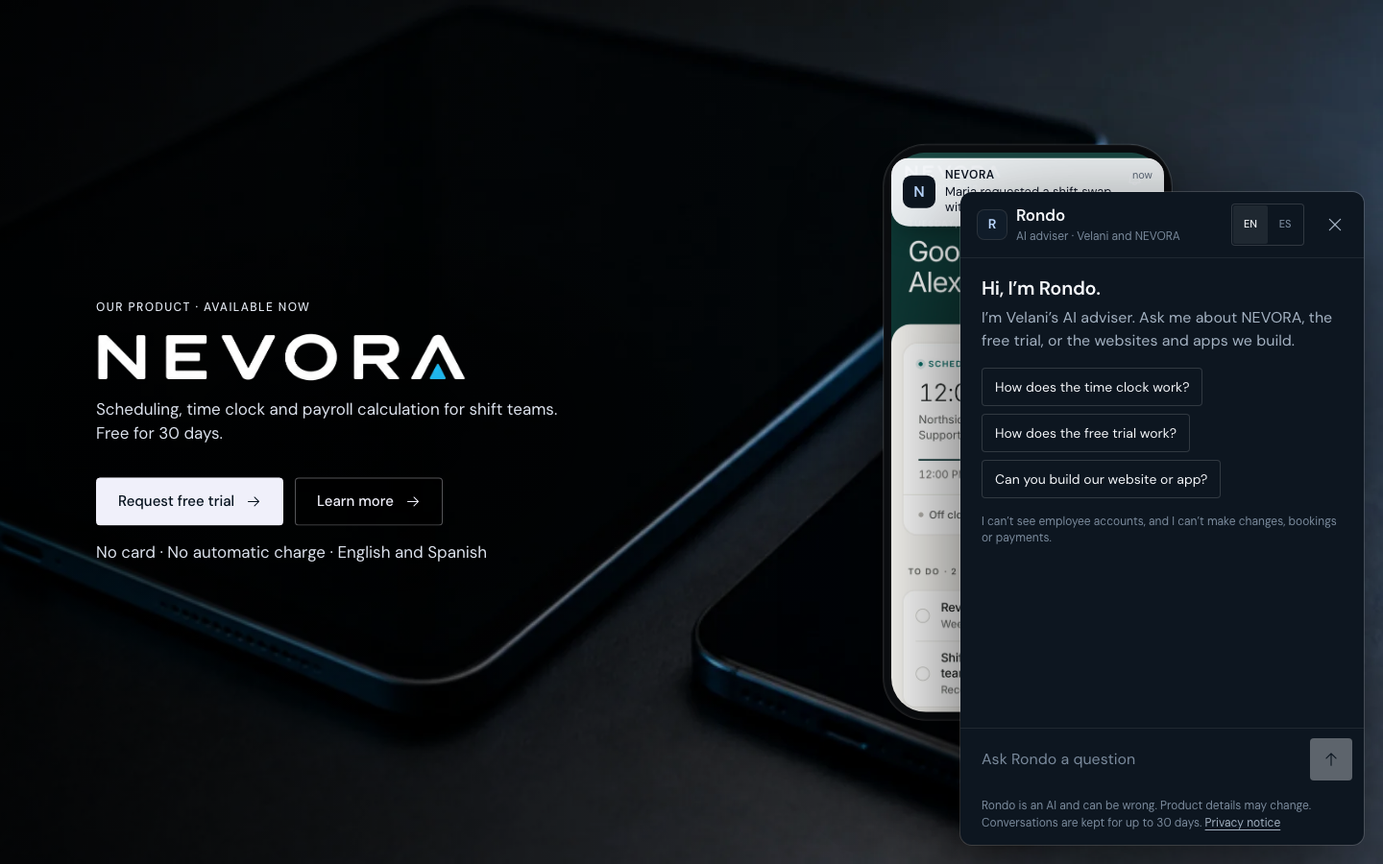
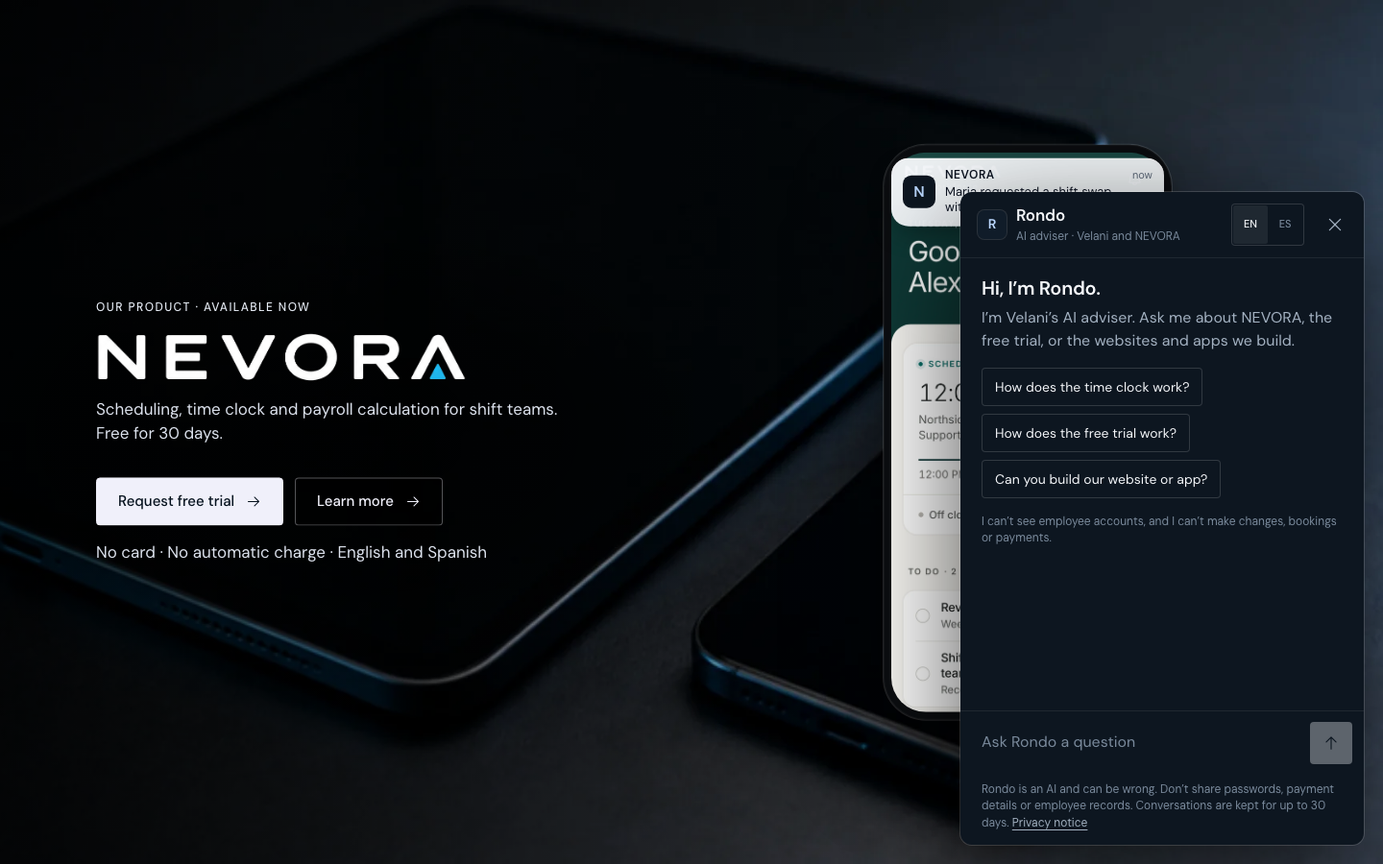
Fix the inspection's copy and flow issues; hand Codex the Rondo launch items
- Trial form: choosing "More than 30 (by quote)" turns the page into a quote
  request (heading, button, topic, note) and keeps what was typed.
- Plans, Help, Contact: the trial ends one of two ways, continue by quote or
  close the workplace, with export as the step before closing.
- Rondo: "In development" in both menus; "Ask Rondo" on the NEVORA page opens
  the chat; the chat asks people not to share passwords, payment details or
  employee records.
- Products: description links say Explore; Relay says Join the waitlist;
  the page has its own search description. Contact topic: NEVORA Relay waitlist.
- docs/handoffs: retention scheduling, knowledge refresh and client sync for Codex.

Checks: 34 unit tests, theme check clean, inspection-fixes 44/44, Rondo UI 166/166.

Changed region(s): [[0.7188, 0.84, 1.0, 0.9644]]

diff --git a/src/night/products.body.html b/src/night/products.body.html
@@ -1,2 +1,2 @@
 <!-- Products page source (/pages/products). src/night.mjs renders only <main>; the global header and footer come from night.mjs and foot.html. NEVORA Workforce, NEVORA Relay (coming soon) and custom development, then the closing panel. -->
-<main id="main"><section class="phero"><div class="wrap"><p class="kicker">Velani</p><h1 class="t1 rise">What we make.</h1><p class="lede fade">NEVORA, our own software for businesses that run on shifts and orders, and custom software we build for other businesses.</p></div></section><section class="hpanel " id="nevora" aria-labelledby="nevora-t"><img class="hph" src="img/ai-devices.webp" alt="" width="1920" height="1080" loading="lazy" decoding="async"><div class="hshade"></div><div class="hcopy"><p class="hkick">NEVORA Workforce&nbsp;· Available now</p><h2 class="rise" id="nevora-t"><img src="img/nevora-wm-white.png" alt="NEVORA" width="907" height="122"></h2><p class="fade">Scheduling, time clock and payroll calculation for teams that work in shifts, with Rondo, its AI assistant, in development. Free for 30 days, for teams of up to 30 employees.</p><div class="hacts fade"><a class="hb fill" href="/pages/contact?interest=nevora-demo">Request free trial{{icon:arrow-right}}</a><a class="hb" href="/pages/nevora">Learn more{{icon:arrow-right}}</a></div></div><div class="hshot fade"><img src="img/phone-long.webp" alt="NEVORA on an employee’s phone: her shift today and two things to do" width="1170" height="3936" loading="lazy"></div></section><section class="hpanel right" id="relay" aria-labelledby="relay-t"><img class="hph" src="img/ai-store-soft.webp" alt="" width="1920" height="1080" loading="lazy" decoding="async"><div class="hshade"></div><div class="hcopy"><p class="hkick">NEVORA Relay&nbsp;· Coming soon</p><h2 class="rise" id="relay-t">Every&nbsp;order. Every&nbsp;item. In&nbsp;sync.</h2><p class="fade">Orders, the kitchen screen and inventory in one system. Works on its own, and with NEVORA Workforce.</p><div class="hacts fade"><a class="hb fill" href="/pages/contact?interest=relay">Get early access{{icon:arrow-right}}</a></div><p class="hfact fade">In design&nbsp;· No dates yet</p></div><ul class="rcard" aria-label="What NEVORA Relay will do"><li>{{icon:receipt}}<span><b>Orders</b>Entered at the counter, sent straight to the right preparation screen.</span></li><li>{{icon:monitor}}<span><b>Kitchen display</b>Accept, prepare and complete orders. No paper tickets.</span></li><li>{{icon:package}}<span><b>Inventory</b>Stock updates as orders are completed, with a warning before you run low.</span></li><li class="rcard-more"><span>Pickup and delivery handoffs and a live dashboard will follow.</span></li></ul></section><section class="hpanel " id="websites" aria-labelledby="websites-t"><img class="hph" src="img/ai-laptop.webp" alt="" width="1920" height="1080" loading="lazy" decoding="async"><div class="hshade"></div><div class="hcopy"><p class="hkick">Custom development</p><h2 class="rise" id="websites-t">Websites</h2><p class="fade">Modern, fast and built to bring in calls and bookings on every phone.</p><div class="hacts fade"><a class="hb" href="/pages/custom-development#web-applications">Start a project{{icon:arrow-right}}</a></div></div></section><section class="hpanel right" id="apps" aria-labelledby="apps-t"><img class="hph" src="img/ai-dash.webp" alt="" width="1920" height="1080" loading="lazy" decoding="async"><div class="hshade"></div><div class="hcopy"><p class="hkick">Custom development</p><h2 class="rise" id="apps-t">Custom apps</h2><p class="fade">Booking systems, loyalty cards, online stores with delivery pricing, and dashboards for your day.</p><div class="hacts fade"><a class="hb" href="/pages/custom-development">Start a project{{icon:arrow-right}}</a></div></div></section><section class="hpanel end" id="velani" aria-label="Velani"><img class="hph flip" src="img/ai-light.webp" alt="" width="1920" height="1080" loading="lazy"><div class="hshade"></div><div class="hcopy"><p class="hwm">{{wordmark}}</p><p class="fade">Software products and custom development. Client support Monday to Friday, 8 am to 9 pm ET at <a class="ul" href="tel:+17879252000">787-925-2000</a>.</p><div class="hacts fade"><a class="hb fill" href="/pages/contact">Start a project{{icon:arrow-right}}</a><a class="hb" href="/pages/help">Client support{{icon:arrow-right}}</a></div></div></section></main>
+<main id="main"><section class="phero"><div class="wrap"><p class="kicker">Velani</p><h1 class="t1 rise">What we make.</h1><p class="lede fade">NEVORA, our own software for businesses that run on shifts and orders, and custom software we build for other businesses.</p></div></section><section class="hpanel " id="nevora" aria-labelledby="nevora-t"><img class="hph" src="img/ai-devices.webp" alt="" width="1920" height="1080" loading="lazy" decoding="async"><div class="hshade"></div><div class="hcopy"><p class="hkick">NEVORA Workforce&nbsp;· Available now</p><h2 class="rise" id="nevora-t"><img src="img/nevora-wm-white.png" alt="NEVORA" width="907" height="122"></h2><p class="fade">Scheduling, time clock and payroll calculation for teams that work in shifts, with Rondo, its AI assistant, in development. Free for 30 days, for teams of up to 30 employees.</p><div class="hacts fade"><a class="hb fill" href="/pages/contact?interest=nevora-demo">Request free trial{{icon:arrow-right}}</a><a class="hb" href="/pages/nevora">Learn more{{icon:arrow-right}}</a></div></div><div class="hshot fade"><img src="img/phone-long.webp" alt="NEVORA on an employee’s phone: her shift today and two things to do" width="1170" height="3936" loading="lazy"></div></section><section class="hpanel right" id="relay" aria-labelledby="relay-t"><img class="hph" src="img/ai-store-soft.webp" alt="" width="1920" height="1080" loading="lazy" decoding="async"><div class="hshade"></div><div class="hcopy"><p class="hkick">NEVORA Relay&nbsp;· Coming soon</p><h2 class="rise" id="relay-t">Every&nbsp;order. Every&nbsp;item. In&nbsp;sync.</h2><p class="fade">Orders, the kitchen screen and inventory in one system. Works on its own, and with NEVORA Workforce.</p><div class="hacts fade"><a class="hb fill" href="/pages/contact?interest=relay">Join the waitlist{{icon:arrow-right}}</a></div><p class="hfact fade">In design&nbsp;· No dates yet</p></div><ul class="rcard" aria-label="What NEVORA Relay will do"><li>{{icon:receipt}}<span><b>Orders</b>Entered at the counter, sent straight to the right preparation screen.</span></li><li>{{icon:monitor}}<span><b>Kitchen display</b>Accept, prepare and complete orders. No paper tickets.</span></li><li>{{icon:package}}<span><b>Inventory</b>Stock updates as orders are completed, with a warning before you run low.</span></li><li class="rcard-more"><span>Pickup and delivery handoffs and a live dashboard will follow.</span></li></ul></section><section class="hpanel " id="websites" aria-labelledby="websites-t"><img class="hph" src="img/ai-laptop.webp" alt="" width="1920" height="1080" loading="lazy" decoding="async"><div class="hshade"></div><div class="hcopy"><p class="hkick">Custom development</p><h2 class="rise" id="websites-t">Websites</h2><p class="fade">Modern, fast and built to bring in calls and bookings on every phone.</p><div class="hacts fade"><a class="hb" href="/pages/custom-development#web-applications">Explore websites{{icon:arrow-right}}</a></div></div></section><section class="hpanel right" id="apps" aria-labelledby="apps-t"><img class="hph" src="img/ai-dash.webp" alt="" width="1920" height="1080" loading="lazy" decoding="async"><div class="hshade"></div><div class="hcopy"><p class="hkick">Custom development</p><h2 class="rise" id="apps-t">Custom apps</h2><p class="fade">Booking systems, loyalty cards, online stores with delivery pricing, and dashboards for your day.</p><div class="hacts fade"><a class="hb" href="/pages/custom-development">Explore custom apps{{icon:arrow-right}}</a></div></div></section><section class="hpanel end" id="velani" aria-label="Velani"><img class="hph flip" src="img/ai-light.webp" alt="" width="1920" height="1080" loading="lazy"><div class="hshade"></div><div class="hcopy"><p class="hwm">{{wordmark}}</p><p class="fade">Software products and custom development. Client support Monday to Friday, 8 am to 9 pm ET at <a class="ul" href="tel:+17879252000">787-925-2000</a>.</p><div class="hacts fade"><a class="hb fill" href="/pages/contact">Start a project{{icon:arrow-right}}</a><a class="hb" href="/pages/help">Client support{{icon:arrow-right}}</a></div></div></section></main>

diff --git a/public/assets/velani.js b/public/assets/velani.js
@@ -26,11 +26,27 @@ if (form && !justSent) {
   // The page already shows the right wording (chosen before paint); drop the unused variant so screen readers and the heading label see one text
   const nevora = document.documentElement.classList.contains('ask-nevora');
   const demo = document.documentElement.classList.contains('ask-demo');
-  document.querySelectorAll(demo ? '.v-d, .v-n:not(.v-nm)' : nevora ? '.v-d, .v-m' : '.v-n, .v-m').forEach(el => el.remove());
-  document.querySelectorAll('.phero .rise[aria-label]').forEach(h => h.setAttribute('aria-label', h.textContent.replace(/\s+/g, ' ').trim()));
+  // The trial page keeps its quote wording (hidden) so a team of more than 30 can switch to a quote without losing what was typed
+  document.querySelectorAll(demo ? '.v-d' : nevora ? '.v-d, .v-m' : '.v-n, .v-m').forEach(el => el.remove());
+  const shown = el => [...el.childNodes].filter(n => n.nodeType === 3 || getComputedStyle(n).display !== 'none').map(n => n.textContent).join('');
+  const relabel = () => document.querySelectorAll('.phero .rise[aria-label]').forEach(h => h.setAttribute('aria-label', shown(h).replace(/\s+/g, ' ').trim()));
+  relabel();
   if (topic === 'nevora' || topic === 'nevora-demo') {
     document.title = (topic === 'nevora-demo' ? 'Free NEVORA trial' : 'NEVORA for your team') + ' · Velani';
     fields.message.required = false;
+  }
+  // Trial page, team of more than 30: the free trial does not apply, so the page becomes a quote request (heading, button, topic)
+  if (demo && fields.team) {
+   const note = document.createElement('p'); note.className = 'send-note quote-note'; note.setAttribute('role', 'status'); note.hidden = true;
+   note.textContent = 'Teams of more than 30 people get a quote instead of the free trial. What you typed is kept.';
+   submitButton.before(note);
+   fields.team.addEventListener('change', () => {
+    const big = /^More than 30/.test(fields.team.value);
+    document.documentElement.classList.toggle('ask-demo', !big);
+    fields.interest.value = big ? 'nevora' : 'nevora-demo';
+    document.title = (big ? 'NEVORA for your team' : 'Free NEVORA trial') + ' · Velani';
+    note.hidden = !big; relabel();
+   });
   }
   const setBusy = busy => { submitButton.disabled = busy; form.setAttribute('aria-busy', String(busy)); };
   const messages = { checking: 'Checking your draft…', preview: 'Draft checked. Nothing was sent.', invalid: 'Check the highlighted fields.', sending: 'Sending inquiry…', accepted: 'Your inquiry was submitted.', failed: 'The inquiry was not accepted. Review the form before trying again.', uncertain: 'We could not confirm the submission. It may have been accepted. Check with support@thevelani.com before sending it again.', unavailable: 'Inquiry delivery is not available.' };
@@ -55,7 +71,7 @@ if (form && !justSent) {
     }
     if (mode === 'live') {
       // A NEVORA enquiry may have no message: send the team details as the message body so the email is never empty
-      if (!values.message.trim() && fields.message) fields.message.value = [values.interest === 'relay' ? 'NEVORA Relay early access request.' : values.interest === 'nevora-demo' ? 'Free NEVORA trial request.' : 'NEVORA quote request.', values.team && 'Team size: ' + values.team, values.locations && 'Locations: ' + values.locations, values.company && 'Company: ' + values.company].filter(Boolean).join('\n');
+      if (!values.message.trim() && fields.message) fields.message.value = [values.interest === 'relay' ? 'NEVORA Relay waitlist request.' : values.interest === 'nevora-demo' ? 'Free NEVORA trial request.' : 'NEVORA quote request.', values.team && 'Team size: ' + values.team, values.locations && 'Locations: ' + values.locations, values.company && 'Company: ' + values.company].filter(Boolean).join('\n');
       try { sessionStorage.setItem('v-inquiry-topic', values.interest || ''); } catch {}
       setBusy(true); status.textContent = messages.sending; return;
     }

diff --git a/public/assets/velani-assist.js b/public/assets/velani-assist.js
@@ -13,7 +13,7 @@ import { VelaniAssistant, safeSourceUrl } from './velani-assistant.js';
    ask: 'Ask Rondo a question', label: 'Your question for Rondo', send: 'Send', close: 'Close', del: 'Delete this conversation', lang: 'Language',
    confirm: 'Delete this conversation from our servers?', yes: 'Delete', keep: 'Keep',
    switchQ: 'Switch to Spanish? This conversation will be deleted and a new one started in Spanish.', switchYes: 'Switch', switchNo: 'Keep English', switched: 'New conversation in English.',
-   verify: 'Checking that your browser is not an automated program…', note: 'Rondo is an AI and can be wrong. Product details may change. Conversations are kept for up to 30 days.', privacy: 'Privacy notice',
+   verify: 'Checking that your browser is not an automated program…', note: 'Rondo is an AI and can be wrong. Don’t share passwords, payment details or employee records. Conversations are kept for up to 30 days.', privacy: 'Privacy notice',
    retry: 'Retry', discard: 'Discard', edit: 'Edit question', contact: 'Contact page',
    sugg: ['How does the time clock work?', 'How does the free trial work?', 'Can you build our website or app?'],
    sources: 'Sources', newTab: '(opens in a new tab)', demo: 'Try the time clock', quote: 'Ask for a quote', support: 'NEVORA support', talk: 'Contact us',
@@ -25,7 +25,7 @@ import { VelaniAssistant, safeSourceUrl } from './velani-assistant.js';
    ask: 'Escribe tu pregunta para Rondo', label: 'Tu pregunta para Rondo', send: 'Enviar', close: 'Cerrar', del: 'Eliminar esta conversación', lang: 'Idioma',
    confirm: '¿Eliminar esta conversación de nuestros servidores?', yes: 'Eliminar', keep: 'Conservar',
    switchQ: '¿Cambiar a inglés? Esta conversación se eliminará y empezará una nueva en inglés.', switchYes: 'Cambiar', switchNo: 'Seguir en español', switched: 'Nueva conversación en español.',
-   verify: 'Comprobando que tu navegador no es un programa automatizado…', note: 'Rondo es una IA y puede equivocarse. Los detalles del producto pueden cambiar. Las conversaciones se conservan hasta 30 días.', privacy: 'Aviso de privacidad',
+   verify: 'Comprobando que tu navegador no es un programa automatizado…', note: 'Rondo es una IA y puede equivocarse. No compartas contraseñas, datos de pago ni registros de empleados. Las conversaciones se conservan hasta 30 días.', privacy: 'Aviso de privacidad',
    retry: 'Reintentar', discard: 'Descartar', edit: 'Editar pregunta', contact: 'Página de contacto',
    sugg: ['¿Cómo funciona el reloj de entrada?', '¿Cómo funciona la prueba gratis?', '¿Pueden crear nuestro sitio web o aplicación?'],
    sources: 'Fuentes', newTab: '(se abre en una pestaña nueva)', demo: 'Probar el reloj de entrada', quote: 'Pedir una cotización', support: 'Soporte de NEVORA', talk: 'Contáctanos',
@@ -63,6 +63,8 @@ import { VelaniAssistant, safeSourceUrl } from './velani-assistant.js';
   panel.classList.remove('in'); panel.hidden = true; panel.removeAttribute('aria-modal'); launch.setAttribute('aria-expanded', 'false'); document.body.style.overflow = ''; launch.focus({ preventScroll: true });
  };
  launch.addEventListener('click', open); $('ast-close').addEventListener('click', close);
+ // Page buttons marked data-open-rondo open the panel; without the assistant they keep their normal link
+ document.querySelectorAll('[data-open-rondo]').forEach(a => a.addEventListener('click', e => { e.preventDefault(); if (panel.hidden) open(); }));
  panel.addEventListener('keydown', e => {
   if (e.key === 'Escape') { e.preventDefault(); if (!confirm.hidden) hideConfirm(); else close(); return; }
   if (e.key === 'Tab' && small.matches) {

diff --git a/src/night/assist.js b/src/night/assist.js
@@ -13,7 +13,7 @@ import { VelaniAssistant, safeSourceUrl } from './velani-assistant.js';
    ask: 'Ask Rondo a question', label: 'Your question for Rondo', send: 'Send', close: 'Close', del: 'Delete this conversation', lang: 'Language',
    confirm: 'Delete this conversation from our servers?', yes: 'Delete', keep: 'Keep',
    switchQ: 'Switch to Spanish? This conversation will be deleted and a new one started in Spanish.', switchYes: 'Switch', switchNo: 'Keep English', switched: 'New conversation in English.',
-   verify: 'Checking that your browser is not an automated program…', note: 'Rondo is an AI and can be wrong. Product details may change. Conversations are kept for up to 30 days.', privacy: 'Privacy notice',
+   verify: 'Checking that your browser is not an automated program…', note: 'Rondo is an AI and can be wrong. Don’t share passwords, payment details or employee records. Conversations are kept for up to 30 days.', privacy: 'Privacy notice',
    retry: 'Retry', discard: 'Discard', edit: 'Edit question', contact: 'Contact page',
    sugg: ['How does the time clock work?', 'How does the free trial work?', 'Can you build our website or app?'],
    sources: 'Sources', newTab: '(opens in a new tab)', demo: 'Try the time clock', quote: 'Ask for a quote', support: 'NEVORA support', talk: 'Contact us',
@@ -25,7 +25,7 @@ import { VelaniAssistant, safeSourceUrl } from './velani-assistant.js';
    ask: 'Escribe tu pregunta para Rondo', label: 'Tu pregunta para Rondo', send: 'Enviar', close: 'Cerrar', del: 'Eliminar esta conversación', lang: 'Idioma',
    confirm: '¿Eliminar esta conversación de nuestros servidores?', yes: 'Eliminar', keep: 'Conservar',
    switchQ: '¿Cambiar a inglés? Esta conversación se eliminará y empezará una nueva en inglés.', switchYes: 'Cambiar', switchNo: 'Seguir en español', switched: 'Nueva conversación en español.',
-   verify: 'Comprobando que tu navegador no es un programa automatizado…', note: 'Rondo es una IA y puede equivocarse. Los detalles del producto pueden cambiar. Las conversaciones se conservan hasta 30 días.', privacy: 'Aviso de privacidad',
+   verify: 'Comprobando que tu navegador no es un programa automatizado…', note: 'Rondo es una IA y puede equivocarse. No compartas contraseñas, datos de pago ni registros de empleados. Las conversaciones se conservan hasta 30 días.', privacy: 'Aviso de privacidad',
    retry: 'Reintentar', discard: 'Descartar', edit: 'Editar pregunta', contact: 'Página de contacto',
    sugg: ['¿Cómo funciona el reloj de entrada?', '¿Cómo funciona la prueba gratis?', '¿Pueden crear nuestro sitio web o aplicación?'],
    sources: 'Fuentes', newTab: '(se abre en una pestaña nueva)', demo: 'Probar el reloj de entrada', quote: 'Pedir una cotización', support: 'Soporte de NEVORA', talk: 'Contáctanos',
@@ -63,6 +63,8 @@ import { VelaniAssistant, safeSourceUrl } from './velani-assistant.js';
   panel.classList.remove('in'); panel.hidden = true; panel.removeAttribute('aria-modal'); launch.setAttribute('aria-expanded', 'false'); document.body.style.overflow = ''; launch.focus({ preventScroll: true });
  };
  launch.addEventListener('click', open); $('ast-close').addEventListener('click', close);
+ // Page buttons marked data-open-rondo open the panel; without the assistant they keep their normal link
+ document.querySelectorAll('[data-open-rondo]').forEach(a => a.addEventListener('click', e => { e.preventDefault(); if (panel.hidden) open(); }));
  panel.addEventListener('keydown', e => {
   if (e.key === 'Escape') { e.preventDefault(); if (!confirm.hidden) hideConfirm(); else close(); return; }
   if (e.key === 'Tab' && small.matches) {

diff --git a/public/assets/inquiry.js b/public/assets/inquiry.js
@@ -10,7 +10,7 @@ export function validateInquiry(fields = {}) {
   }
   if (!values.name && !errors.name) errors.name = 'Enter your name.';
   if ((!values.email || !/^[^\s@<>"\\,;]+@[^\s@<>"\\,;]+\.[^\s@<>"\\,;]+$/u.test(values.email)) && !errors.email) errors.email = 'Enter an email address we can reply to.';
-  // A NEVORA enquiry asks about the team instead, and Relay early access needs only a name and email, so their message is optional
+  // A NEVORA enquiry asks about the team instead, and the Relay waitlist needs only a name and email, so their message is optional
   if (!values.message && !errors.message && !/^(nevora|relay)/.test(fields?.interest || '')) errors.message = 'Tell us what you want to discuss.';
   // Locations is a count: blank, or a whole number from 1 to 9999
   if (values.locations && !errors.locations && !/^[1-9]\d{0,3}$/.test(values.locations)) errors.locations = 'Enter the number of locations, for example 2.';

diff --git a/src/night/assist.html b/src/night/assist.html
@@ -25,6 +25,6 @@
    <textarea id="ast-in" rows="1" maxlength="4000" placeholder="Ask Rondo a question" autocomplete="off" enterkeyhint="send"></textarea>
    <button type="submit" class="ast-send" id="ast-send" aria-label="Send" disabled>{{icon:arrow-up}}</button>
   </form>
-  <p class="ast-note" id="ast-note"><span id="ast-note-t">Rondo is an AI and can be wrong. Product details may change. Conversations are kept for up to 30 days.</span> <a href="/pages/privacy#section-4" id="ast-note-a">Privacy notice</a></p>
+  <p class="ast-note" id="ast-note"><span id="ast-note-t">Rondo is an AI and can be wrong. Don’t share passwords, payment details or employee records. Conversations are kept for up to 30 days.</span> <a href="/pages/privacy#section-4" id="ast-note-a">Privacy notice</a></p>
  </section>
 </div>

diff --git a/public/assets/velani.css b/public/assets/velani.css
@@ -830,3 +830,10 @@ body:has(#inquiry-sent:not([hidden])) .cform-hero{display:none}
 .sent .pill{margin-top:32px}
 @media(prefers-reduced-motion:no-preference){.sent:not([hidden]){animation:sent-in .5s var(--out) both}}
 @keyframes sent-in{from{opacity:0;transform:translateY(8px)}}
+
+/* ---------- Inspection fixes (Nov 5) ---------- */
+/* Plans: the trial ends one of two ways */
+.rail.r2{grid-template-columns:repeat(2,minmax(0,1fr))}
+@media(max-width:1023px){.rail.r2{grid-template-columns:1fr;gap:28px}}
+/* Trial form: a team of more than 30 turns the request into a quote; the note says so next to the button */
+.quote-note{color:var(--text-2)}

diff --git a/src/night/polish.css b/src/night/polish.css
@@ -134,3 +134,10 @@ body:has(#inquiry-sent:not([hidden])) .cform-hero{display:none}
 .sent .pill{margin-top:32px}
 @media(prefers-reduced-motion:no-preference){.sent:not([hidden]){animation:sent-in .5s var(--out) both}}
 @keyframes sent-in{from{opacity:0;transform:translateY(8px)}}
+
+/* ---------- Inspection fixes (Nov 5) ---------- */
+/* Plans: the trial ends one of two ways */
+.rail.r2{grid-template-columns:repeat(2,minmax(0,1fr))}
+@media(max-width:1023px){.rail.r2{grid-template-columns:1fr;gap:28px}}
+/* Trial form: a team of more than 30 turns the request into a quote; the note says so next to the button */
+.quote-note{color:var(--text-2)}

diff --git a/src/night/nevora.body.html b/src/night/nevora.body.html
@@ -52,7 +52,7 @@
      <li>{{icon:target}}<b>Knows your priorities</b><span>Tell it what matters, like keeping overtime down. It remembers.</span></li>
     </ul>
     <p class="rondo-trust">You approve every change&nbsp;· Every answer links to where it came from&nbsp;· English and Spanish&nbsp;· For owners</p>
-    <div class="acts"><a class="pill" href="/pages/contact?interest=nevora">Ask about Rondo</a></div>
+    <div class="acts"><a class="pill" href="/pages/contact?interest=nevora" data-open-rondo>Ask Rondo</a></div>
     <p class="rondo-fine">Rondo is in development.</p>
    </div>
    <figure class="rondo-fig">

diff --git a/docs/handoffs/2026-11-05-claude-to-codex-rondo-launch.md b/docs/handoffs/2026-11-05-claude-to-codex-rondo-launch.md
@@ -1,0 +1,41 @@
+# Claude → Codex: three backend items before Rondo goes on the live site
+
+2026-11-05. The website chat UI is finished and passed the hosted end-to-end check in Jose's Safari on unpublished theme `193103921466`. See `docs/handoffs/2026-11-05-rondo-website-ui.md` on branch `claude/rondo-website-ui-20261105`. These three items are backend-owned. Claude did not change the backend, database, models or credentials.
+
+## 1. Retention is not scheduled: launch blocker
+
+The panel and the website privacy notice both say conversations are kept for **up to 30 days**. In `services/velani-ai` (branch `codex/rondo-backend-readiness-20261104`), deletion exists only as a manual command:
+
+- `npm run retention` dry-runs `scripts/retention.ts`, and `--apply` deletes:
+  - sessions past `expires_at` or older than `CHAT_RETENTION_DAYS` (default 30), with their messages by cascade;
+  - leads older than `LEAD_RETENTION_DAYS` (default 90);
+  - stale rate limits.
+- `vercel.json` has no `crons`, and the repository has no `.github` workflow. Nothing runs the command.
+
+Please schedule it, for example daily, with an administration credential kept out of the public function, and record the first applied run. Until a run is verified, the 30-day promise is not operationally true, and the preview theme should not be published.
+
+## 2. Knowledge refresh
+
+The live site changed after the 14 documents were reviewed on 2026-11-04:
+
+- Plans is published at `/pages/plans`;
+- the trial is now "Request free trial", with an on-page confirmation;
+- NEVORA Relay is listed as coming soon, with a waitlist topic;
+- the website now has the "Ask Rondo" chat.
+
+`rondo-knowledge-proposed-2026-11-05.json`, next to this file, contains replacement entries in the existing `knowledge/nevora.json` format:
+
+| Entries | Change |
+| --- | --- |
+| `nevora-availability-en/es` | URL is now `https://www.thevelani.com/pages/plans`. Adds the request flow, the two-business-day reply, the 30 days starting when the workplace is ready, and closure stated as one of two outcomes with export first. |
+| `velani-enquiries-en/es` | Adds the trial, quote, Relay and website topics, the on-page confirmation, and that no automatic confirmation email is sent. |
+| `nevora-rondo-en/es` | Separates the website "Ask Rondo" adviser from the in-app assistant (still in development). |
+| `velani-relay-en/es` | **New**, non-core. Relay is coming soon, in design, with no dates, and has a waitlist at `?interest=relay`. Do not quote prices, dates, hardware or payments. |
+
+All are dated `reviewedAt 2026-11-05` / `validUntil 2026-12-05`. The core count stays at 10, and all URLs pass the seed schema. Please review the wording, merge it into `knowledge/nevora.json`, seed the assistant-only Neon project, and re-run the free checks. Re-run paid evaluations only with Jose's approval.
+
+Note that Claude is also changing the Relay button label from "Get early access" to "Join the waitlist" and the contact topic label to "NEVORA Relay waitlist". The `relay` topic value stays the same.
+
+## 3. Client sync
+
+`src/night/velani-assistant.js` on the UI branch now maps `provider_request_rejected` to a non-retryable `rejected` code, so the UI offers an edit instead of an unchanged retry. It also maps `turn_in_progress` to `inprogress`, and adds EN/ES messages for both. Please copy it over `services/velani-ai/integration/velani-assistant.js` so the reference client and the website client stay identical.
